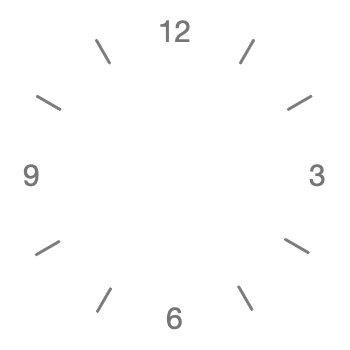
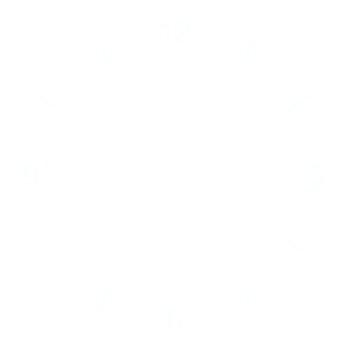
change CSS

diff --git a/src/pointers/ClockPointer.jsx b/src/pointers/ClockPointer.jsx
@@ -1,6 +1,6 @@
 import styled from 'styled-components';
 
-const ClockPointerStyle = styled.div`
+const ClockPlateStyle = styled.div`
     position: relative;
     width: ${(props => props.size)};
     height: ${(props => props.size)};
@@ -11,25 +11,25 @@ const ClockPointerStyle = styled.div`
     background-size: cover;
     border-radius: 50%;
     border: 14px solid ${props => props.is_white ? props.white : props.black};
-    box-shadow: ${(props) =>
-        props.is_white ? props.bg_white_box_shadow : props.bg_black_box_shadow};
-        color: ${(props) => (props.is_white ? props.black : props.white)};
+    box-shadow: ${(props) => props.is_white ? props.bg_white_box_shadow : props.bg_black_box_shadow};
+    color: ${(props) => (props.is_white ? props.black : props.white)};
 `
-ClockPointerStyle.defaultProps = {
+ClockPlateStyle.defaultProps = {
     size:'250px',
     white:'#fff',
     black:'#091921',
     is_white: true,
-    bg_white:'url("../imgs/image_1")',
+    bg_white:'url("../imgs/image_1.png")',
     bg_white_box_shadow: "inset 0 0 30px rgba(0, 0, 0, 0.1), 0 20px 20px rgba(0, 0, 0, 0.2), 0 0 0 4px rgba(255, 255, 255, 1)",
-    bg_black:'url("../imgs/image_2")',
+    bg_black:'url("../imgs/image_2.png")',
     bg_black_box_shadow: "inset 0 0 30px rgba(255, 255, 255, 0.1), 0 20px 20px rgba(0, 0, 0, 0.5), 0 0 0 4px #091921",
-}
+};
+
 const ClockPointer = () => {
     return (
-    <ClockPointerStyle>
+    <ClockPlateStyle>
         老板加钟么 
-    </ClockPointerStyle>  
+    </ClockPlateStyle>  
     );
 }
  

diff --git a/src/main.jsx b/src/main.jsx
@@ -1,15 +1,16 @@
+import React from "react"; //imr
+import ReactDOM from 'react-dom/client'; //imrd
+import { createGlobalStyle } from 'styled-components'; //imsc
 
-import React from "react";
-import ReactDOM from 'react-dom/client';
-import { createGlobalStyle } from 'styled-components';
 import App from './App';
 
-const Global_Styled = createGlobalStyle`
+//设定全局CSS
+const My_Global_Styled = createGlobalStyle`
     body {
         display: flex;
         justify-content:center;
         align-items: center;
-        width: 100vw;
+        width: 100%;
         min-height: 100vh;
         background-image: linear-gradient( to bottom right, #69c0ff 0%, #b7eb8f 100%)
     }
@@ -23,11 +24,12 @@ const Global_Styled = createGlobalStyle`
         text-decoration: none;
         list-style: none;
     }
-`
-
-ReactDOM.createRoot(document.getElementById('root1')).render(
+`;
+ //找到ID='root_123'的元素 并在下面创建一个新Root，并渲染返回render()内部的内容
+const second_root = ReactDOM.createRoot(document.getElementById('root_123'))
+second_root.render(
     <>
-    <Global_Styled />
+    <My_Global_Styled />
     <App />
     </>
 );

diff --git a/src/App.jsx b/src/App.jsx
@@ -1,23 +1,26 @@
-import styled from 'styled-components';
+import styled from 'styled-components'; //imsc
 import Clock from './clocks/Clock';
-const ClockGroup = styled.div`
+
+// ffc -> function, sfc -> arrow func
+const ClocksGroup = styled.div` //CSS
     display: flex;
     justify-content: center;
     align-items: center;
     flex-wrap: wrap;
-    max-width:1200px;
+    max-width:1500px;
 `;
 
 const App = (props) => {
     return (
-    <ClockGroup>
+    <ClocksGroup> 
         <Clock />
         <Clock />
         <Clock />
         <Clock />
-    </ClockGroup>
+        <Clock />
+        <Clock />
+    </ClocksGroup>
     );
-
 };
 
 export default App;

diff --git a/index.html b/index.html
@@ -4,10 +4,10 @@
     <meta charset="UTF-8" />
     <link rel="icon" type="image/svg+xml" href="/src/favicon.svg" />
     <meta name="viewport" content="width=device-width, initial-scale=1.0" />
-    <title>Wrold_clock App</title>
+    <title>World_clock App</title>
   </head>
   <body>
-    <div id="root1"></div>
-    <script type="module" src="./src/main.jsx"></script> 
+    <div id="root_123"></div>
+    <script type="module" src="./src/main.jsx"></script> <!--ES6-->
   </body>
 </html>

diff --git a/src/clocks/ClockBackground.jsx b/src/clocks/ClockBackground.jsx
@@ -1,5 +1,4 @@
-import styled from 'styled-components';
-
+import styled from 'styled-components'; //imsc
 
 const ClockBackground = styled.div`
     width: ${props => props.size};
